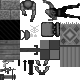
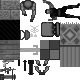
more tweaks

Changed region(s): [[0.25, 0.55, 0.5, 0.7], [0.55, 0.1, 0.7, 0.225], [0.8, 0.2, 0.875, 0.225]]

diff --git a/src/systems/doors.ts b/src/systems/doors.ts
@@ -27,7 +27,9 @@ export class DoorComponent extends Entity {
 
   collidable: Collidable;
 
-  prop: PropComponent;
+  propA: PropComponent;
+
+  propB: PropComponent;
 
   action: ActionComponent;
 
@@ -43,13 +45,27 @@ export class DoorComponent extends Entity {
       mask: BARRIER_MASK,
     });
 
-    this.prop = new PropComponent(this.engine, {
-      pos: this.pos,
-      rot: this.orientation === DoorOrientation.horizontal ? 0 : Math.PI / 2,
+    const isHor = this.orientation === DoorOrientation.horizontal;
+    const xOffset = isHor ? 0 : TILE_SIZE / 2 + 1;
+    const yOffset = isHor ? TILE_SIZE / 2 + 1 : 0;
+
+    this.propA = new PropComponent(this.engine, {
+      pos: this.pos.copy().add(new Vector2(xOffset, yOffset)),
+      rot: isHor ? 0 : Math.PI / 2,
       sprite: 'door',
       changing: true,
       pivot: new Vector2(0, TILE_SIZE / 2),
-      offset: this.orientation === DoorOrientation.horizontal ?
+      offset: isHor ?
+        new Vector2(0, TILE_SIZE / 2) : new Vector2(TILE_SIZE / 2, 0),
+    });
+
+    this.propB = new PropComponent(this.engine, {
+      pos: this.pos.copy().add(new Vector2(-xOffset, -yOffset)),
+      rot: isHor ? 0 : Math.PI / 2,
+      sprite: 'door',
+      changing: true,
+      pivot: new Vector2(0, TILE_SIZE / 2),
+      offset: isHor ?
         new Vector2(0, TILE_SIZE / 2) : new Vector2(TILE_SIZE / 2, 0),
     });
 
@@ -66,12 +82,12 @@ export class DoorComponent extends Entity {
   open() {
     const colisionSystem = this.engine.getSystem<ColisionSystem>(ColisionSystem);
 
-    this.prop.rot += Math.PI / 2;
+    this.propA.pos = this.pos;
+    this.propA.rot += Math.PI / 2;
+    this.propB.destroy();
     colisionSystem.remove(this.collidable);
     this.action.destroy();
-
   }
-
 }
 
 export class DoorsSystem extends EntitySystem<DoorComponent> {

diff --git a/src/systems/lighting.ts b/src/systems/lighting.ts
@@ -114,6 +114,7 @@ export class LightComponent extends Entity {
         this.power = '#aaa';
       }
       this.toggle();
+      this.emitSparks(2);
     }
   }
 
@@ -129,7 +130,7 @@ export class LightComponent extends Entity {
     }
   }
 
-  emitSparks() {
+  emitSparks(multiplier = 1) {
     const particlesSystem = this.engine.getSystem<ParticlesSystem>(ParticlesSystem);
 
     particlesSystem.emit({
@@ -140,8 +141,8 @@ export class LightComponent extends Entity {
       canHit: 0,
       friction: 1.1,
     }, {
-      count: Math.ceil(Math.random() * 10),
-      direction: this.direction.copy().mul(5),
+      count: Math.ceil(Math.random() * 10 * multiplier),
+      direction: this.direction.copy().mul(5 * multiplier),
       spread: Math.PI,
       speedSpread: 0.5,
       lifetimeSpread: 0.5,

diff --git a/src/difficulty.ts b/src/difficulty.ts
@@ -18,14 +18,14 @@ export const difficultyOptions: {[key: string]: DifficultyOptions} = {
   },
   normal: {
     name: 'normal',
-    playerHealthMultiplier: 1,
+    playerHealthMultiplier: 1.2,
     enemyHealthMultiplier: 0.8,
     visibilityLevel: 60,
     aiReactionTime: 500,
   },
   hard: {
     name: 'hard',
-    playerHealthMultiplier: 0.6,
+    playerHealthMultiplier: 0.9,
     enemyHealthMultiplier: 1.2,
     visibilityLevel: 40,
     aiReactionTime: 300,

diff --git a/src/systems/colision.ts b/src/systems/colision.ts
@@ -267,7 +267,7 @@ export class ColisionSystem extends EntitySystem<Collidable> {
   castRay(from: Vector2, to: Vector2) {
     const length = from.distanceTo(to);
     const pos = from.copy();
-    const steps = Math.floor(length / TILE_SIZE * 2);
+    const steps = Math.floor(length / TILE_SIZE * 20);
     const offset = new Vector2(to.x - from.x, to.y - from.y).mul(1 / steps);
 
     for (let i = 0; i < steps; i++) {

diff --git a/src/renderer/visibility-mask.ts b/src/renderer/visibility-mask.ts
@@ -12,7 +12,7 @@ export function renderVisibilityMask(
 ) {
   const points: Vector2[] = [];
 
-  for (let a = -angle / 2; a < angle / 2; a += Math.PI / 50) {
+  for (let a = -angle / 2; a < angle / 2; a += Math.PI / 100) {
     const targetPos = new Vector2(0, maxDistance).rotate(direction + a).add(pov);
     points.push(colisionSystem.castRay(pov, targetPos) || targetPos);
   }
